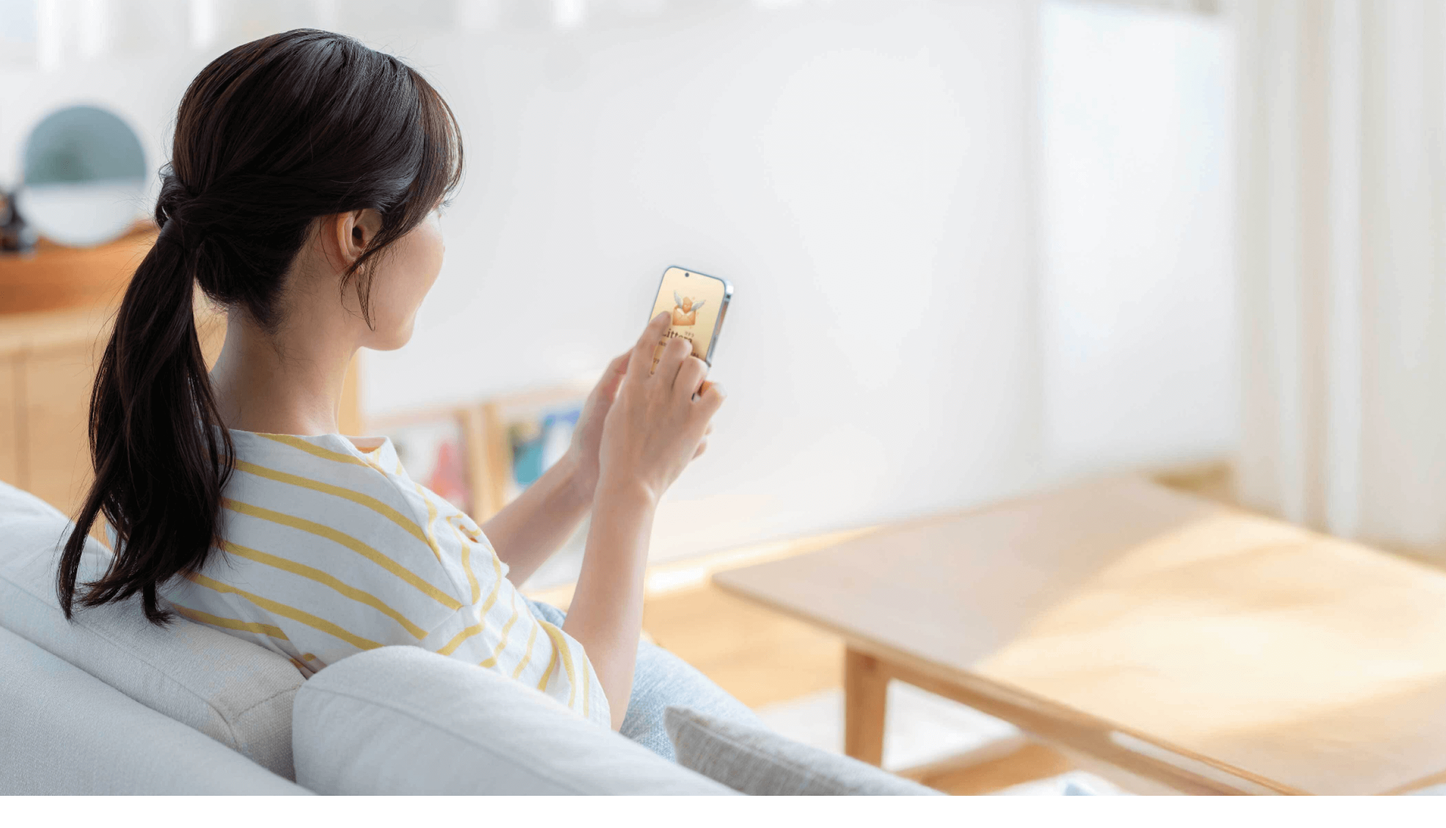
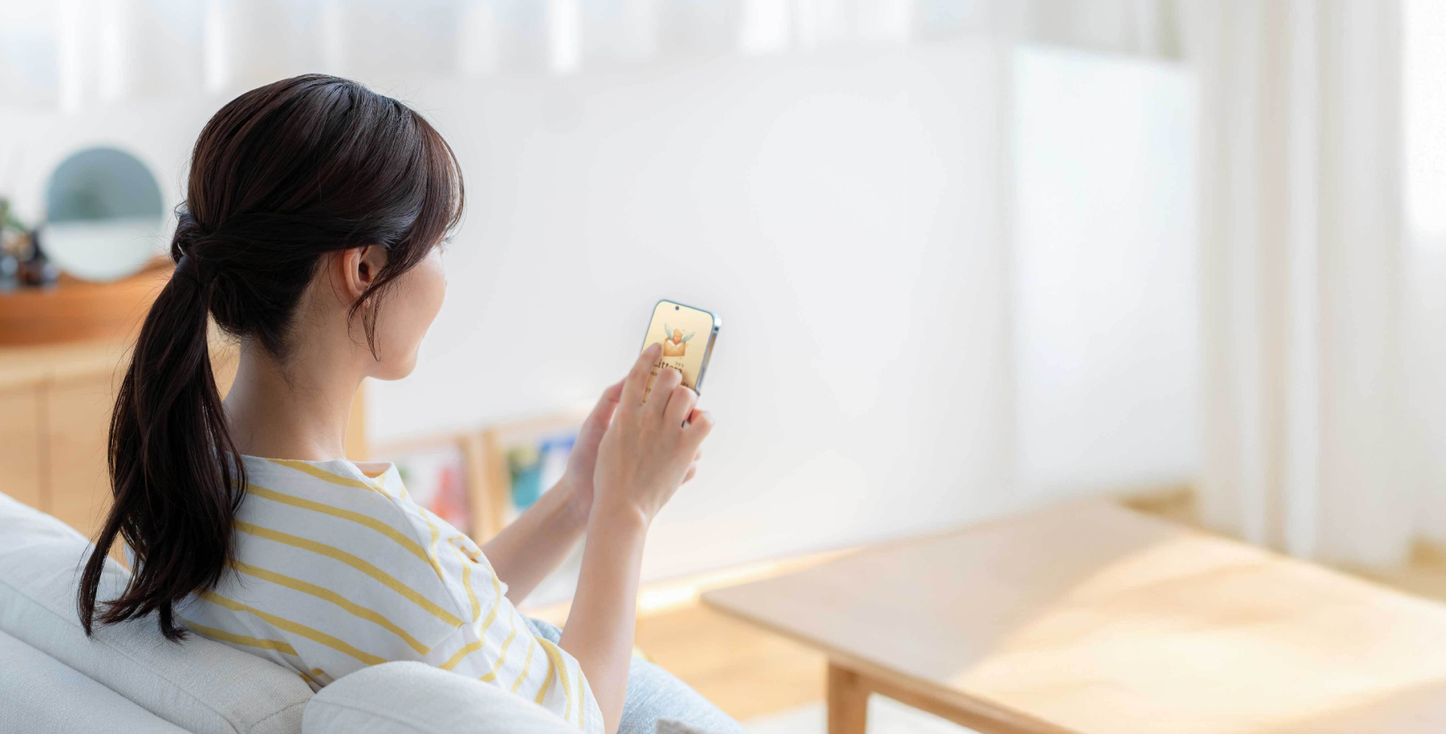
写真修正

diff --git a/app/styles/TopSlide.module.css b/app/styles/TopSlide.module.css
@@ -7,8 +7,8 @@
 .slider {
   position: relative;
   width: 100%;
-  /* 画像のオリジナル比率（2561x1467）を維持 */
-  aspect-ratio: 2561 / 1467;
+  /* ▼ 高さを低くしたい場合は aspect-ratio を横長に変更（例: 2561 / 1000） */
+  aspect-ratio: 2561 / 1200; /* ← 旧: 2561 / 1467 の約68%の高さに縮小 */
 }
 
 /* 各スライド */
@@ -119,8 +119,8 @@
 /* スマホ向け調整 */
 @media (max-width: 768px) {
   .slider {
-    /* モバイル写真の縦長比率に合わせる */
-    aspect-ratio: 482 / 691;
+    /* ▼ モバイルも高さを低く（例: 482 / 500 に変更） */
+    aspect-ratio: 482 / 500; /* 旧: 482 / 691 → かなり低くなる */
   }
 
   .desktopImage {
